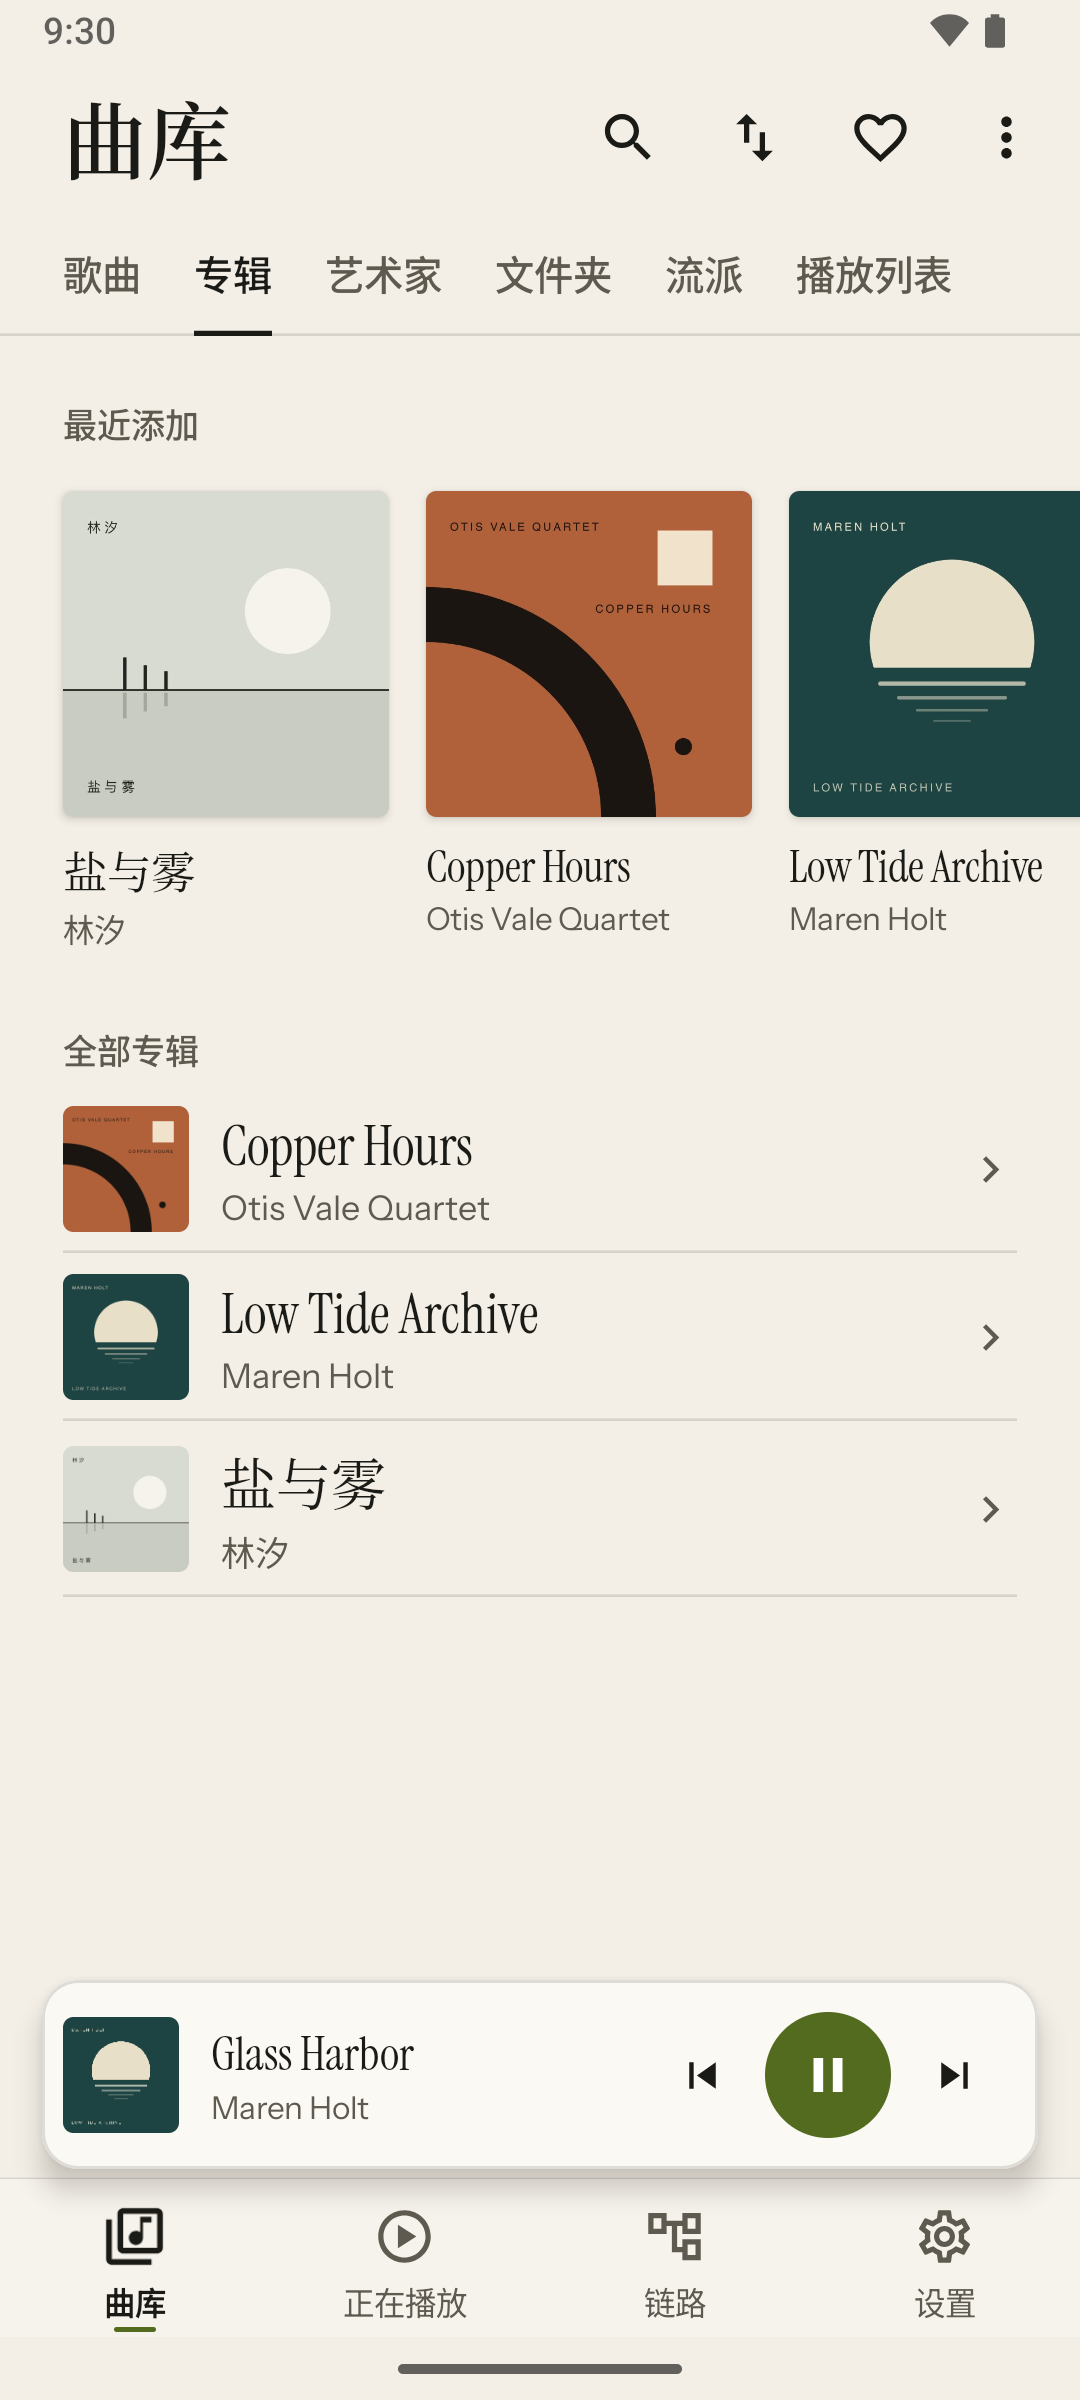
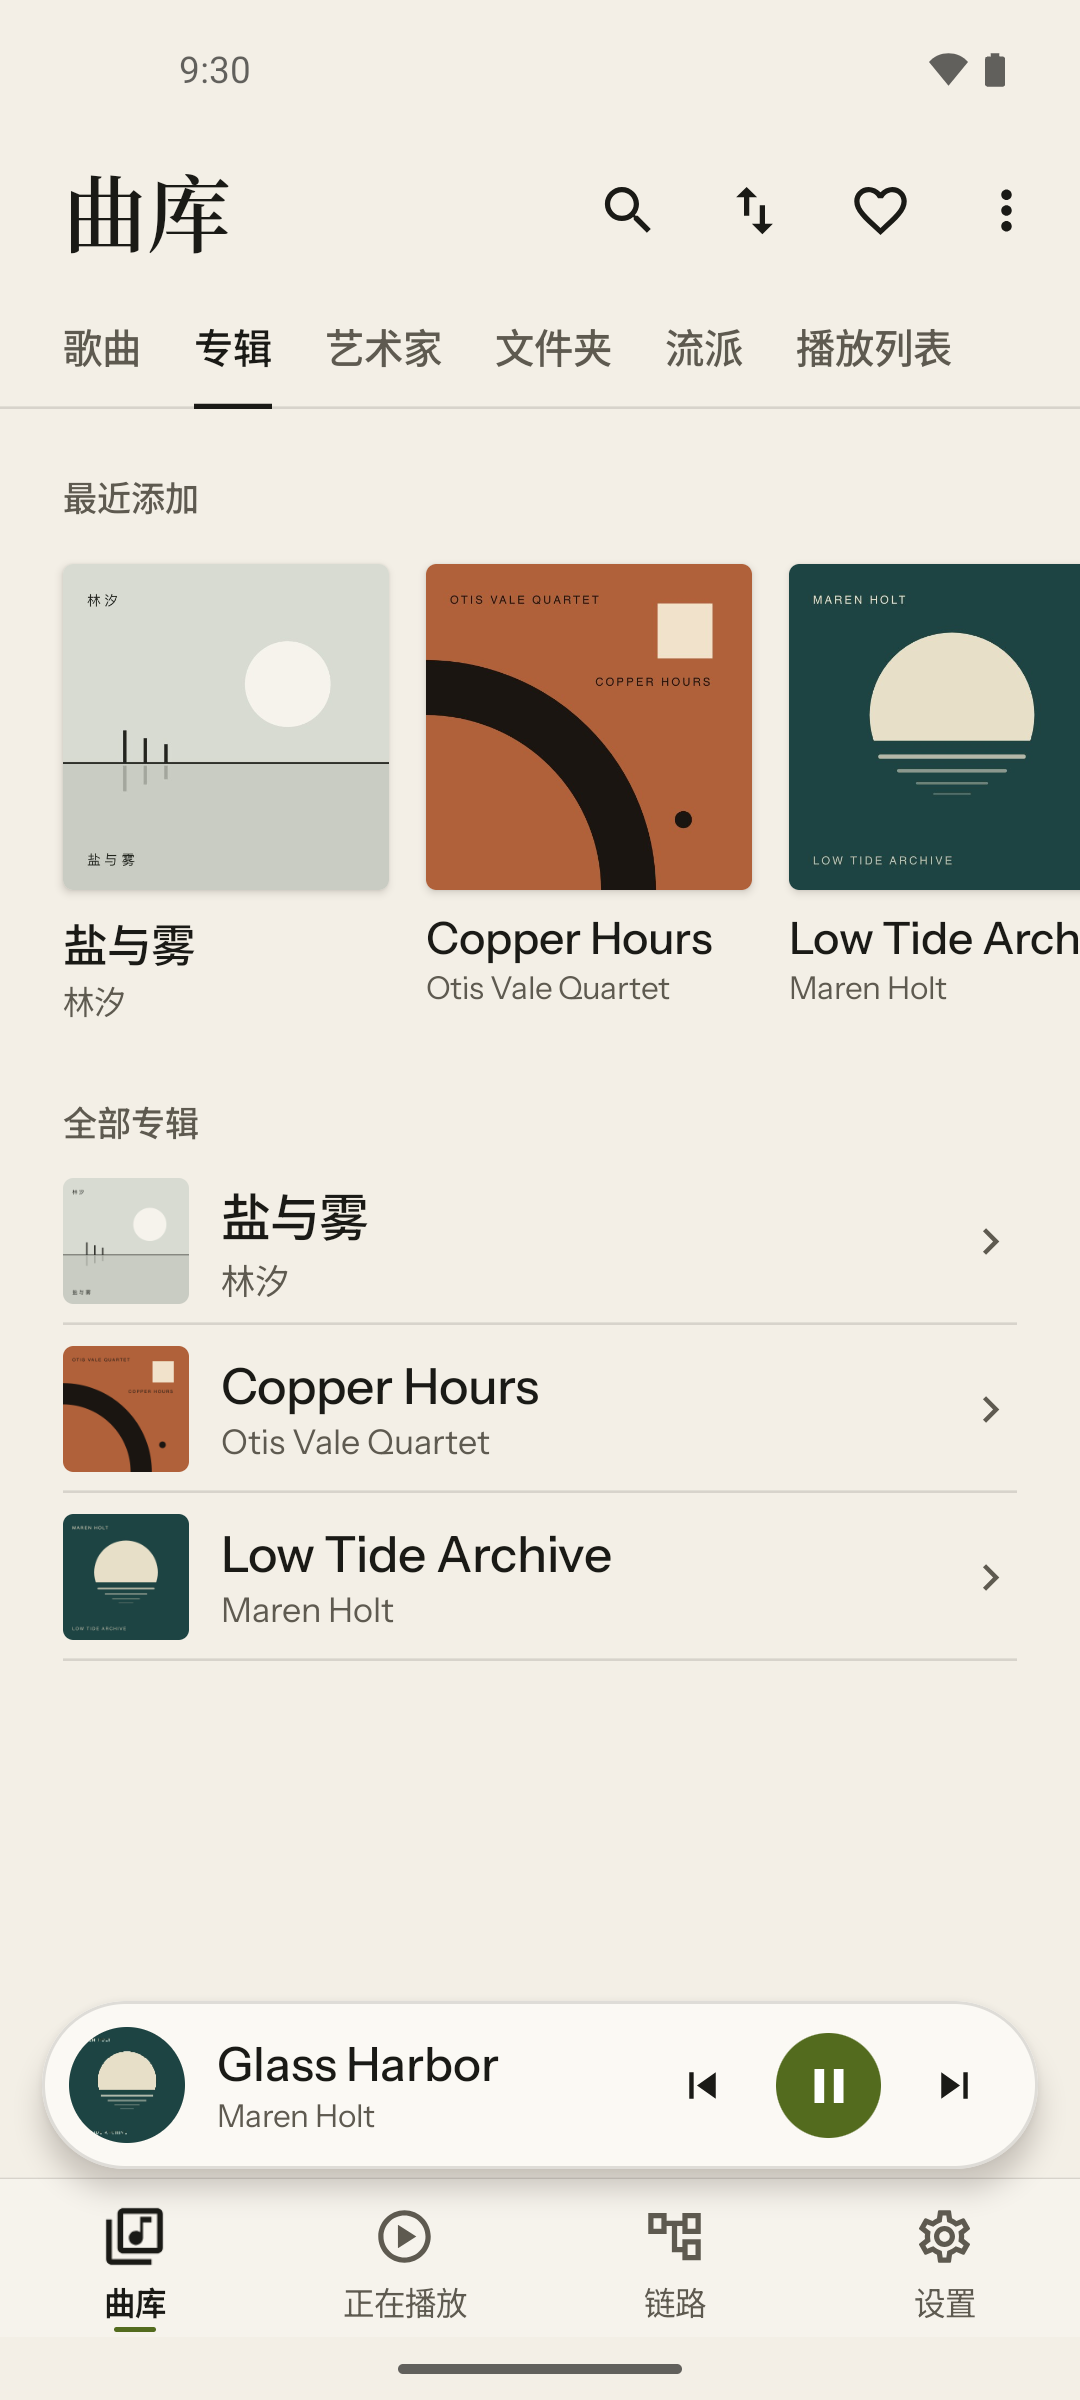
docs: retake the store screenshots with 1.0.0
The six screens in English and Chinese now show the 1.0 interface
(capsule mini player, pinned Chain metrics, live observation) instead
of beta.2. Same order and demo library; Play profile build on the
Android 16 emulator.

diff --git a/docs/PLAY_LISTING.md b/docs/PLAY_LISTING.md
@@ -237,7 +237,7 @@ If the service were deferred or stopped, the music would stop as soon as the use
 
 ## 6. 截图与演示视频
 
-2026-10-13 完成。
+2026-10-13 完成。2026-10-24 用 `1.0.0` 重拍了 12 张截图（Play 版 Profile 构建，`vesqen-check` 模拟器：Android 16 Google APIs arm64，`wm size 1080x2400`、`wm density 420`，拍完复原；曲库只留演示专辑），六个画面和顺序不变，正在播放的都是 Glass Harbor。README 用的是其中三张裁出的内容区（`docs/readme/`，720 × 900）。
 
 - **演示曲库**：截图里不能出现商业专辑的封面和曲名。用 [`tools/demo_library`](../tools/demo_library/README.md) 生成三张虚构专辑（官网同款的 Low Tide Archive、Copper Hours、盐与雾），共十首 FLAC，标签和封面都写全，不会出现 `<unknown>`。
 - **拍摄设备**：临时建的 Android 模拟器（AOSP Android 16 arm64 系统镜像，1080 × 2400，420 dpi），装 beta.2 的 Play 版构建，拍完连同系统镜像一起删除。没用两台测试机，因为它们和其他测试共用，曲库里也有商业专辑。
